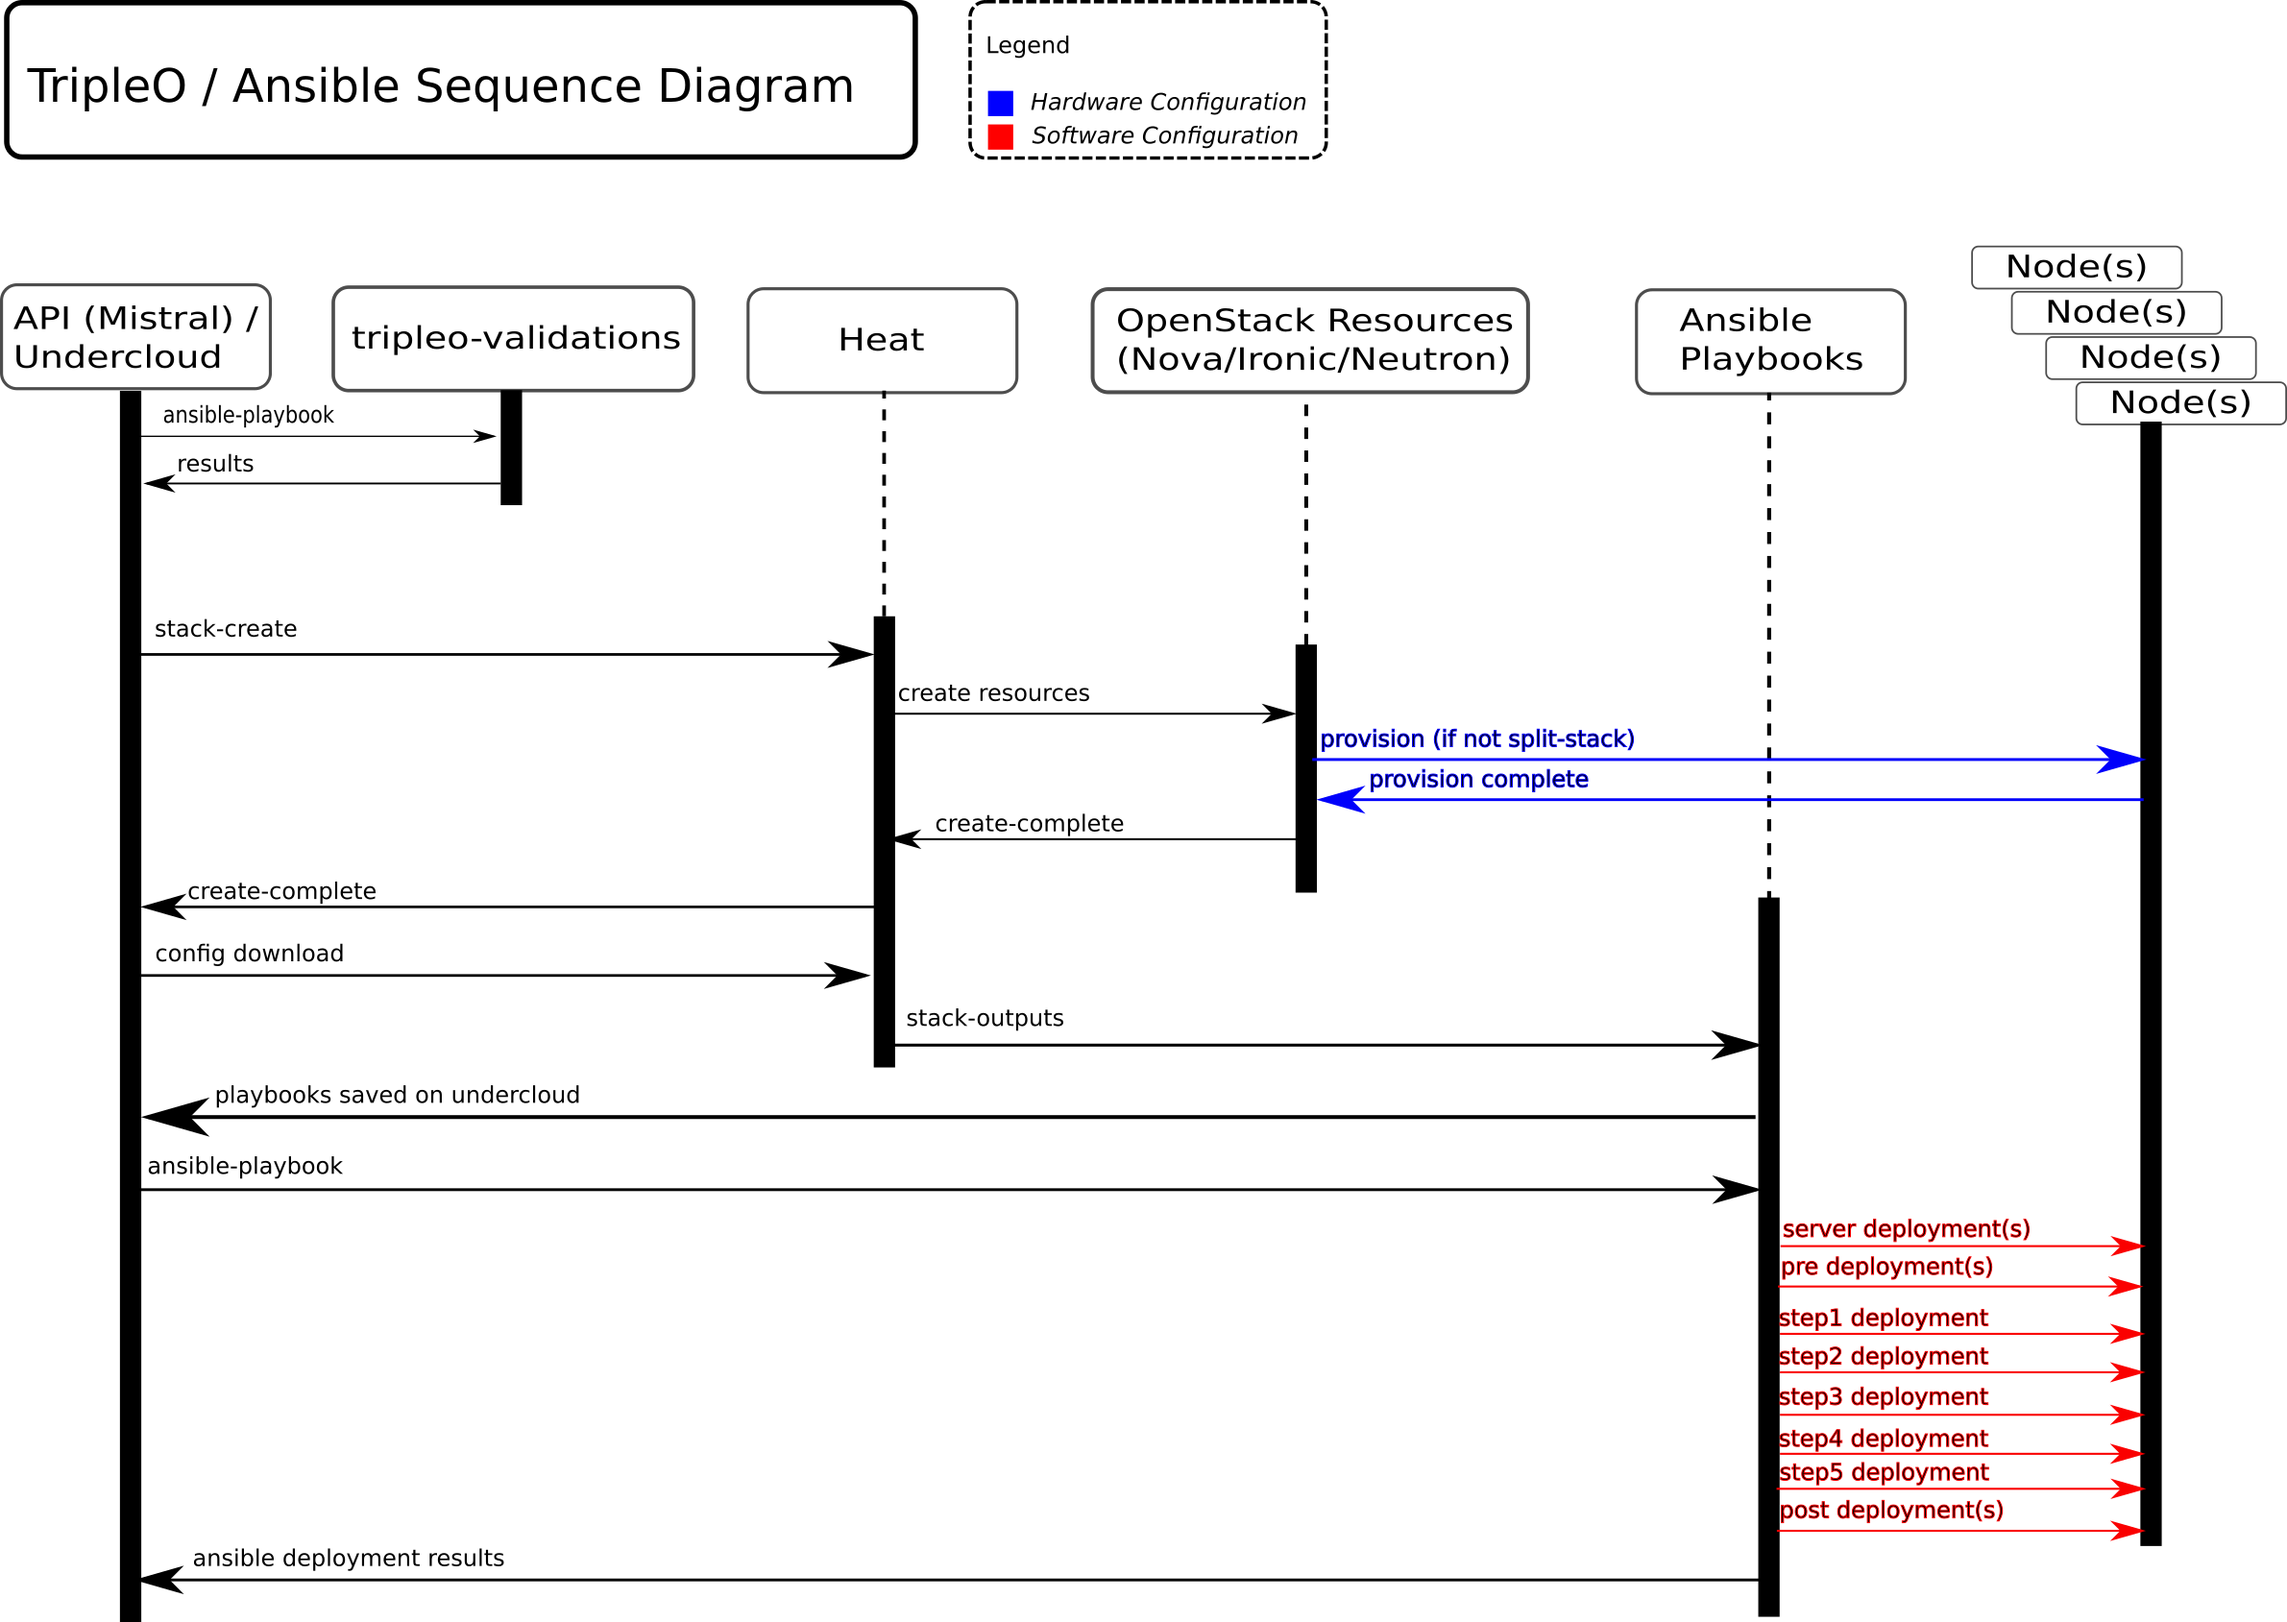
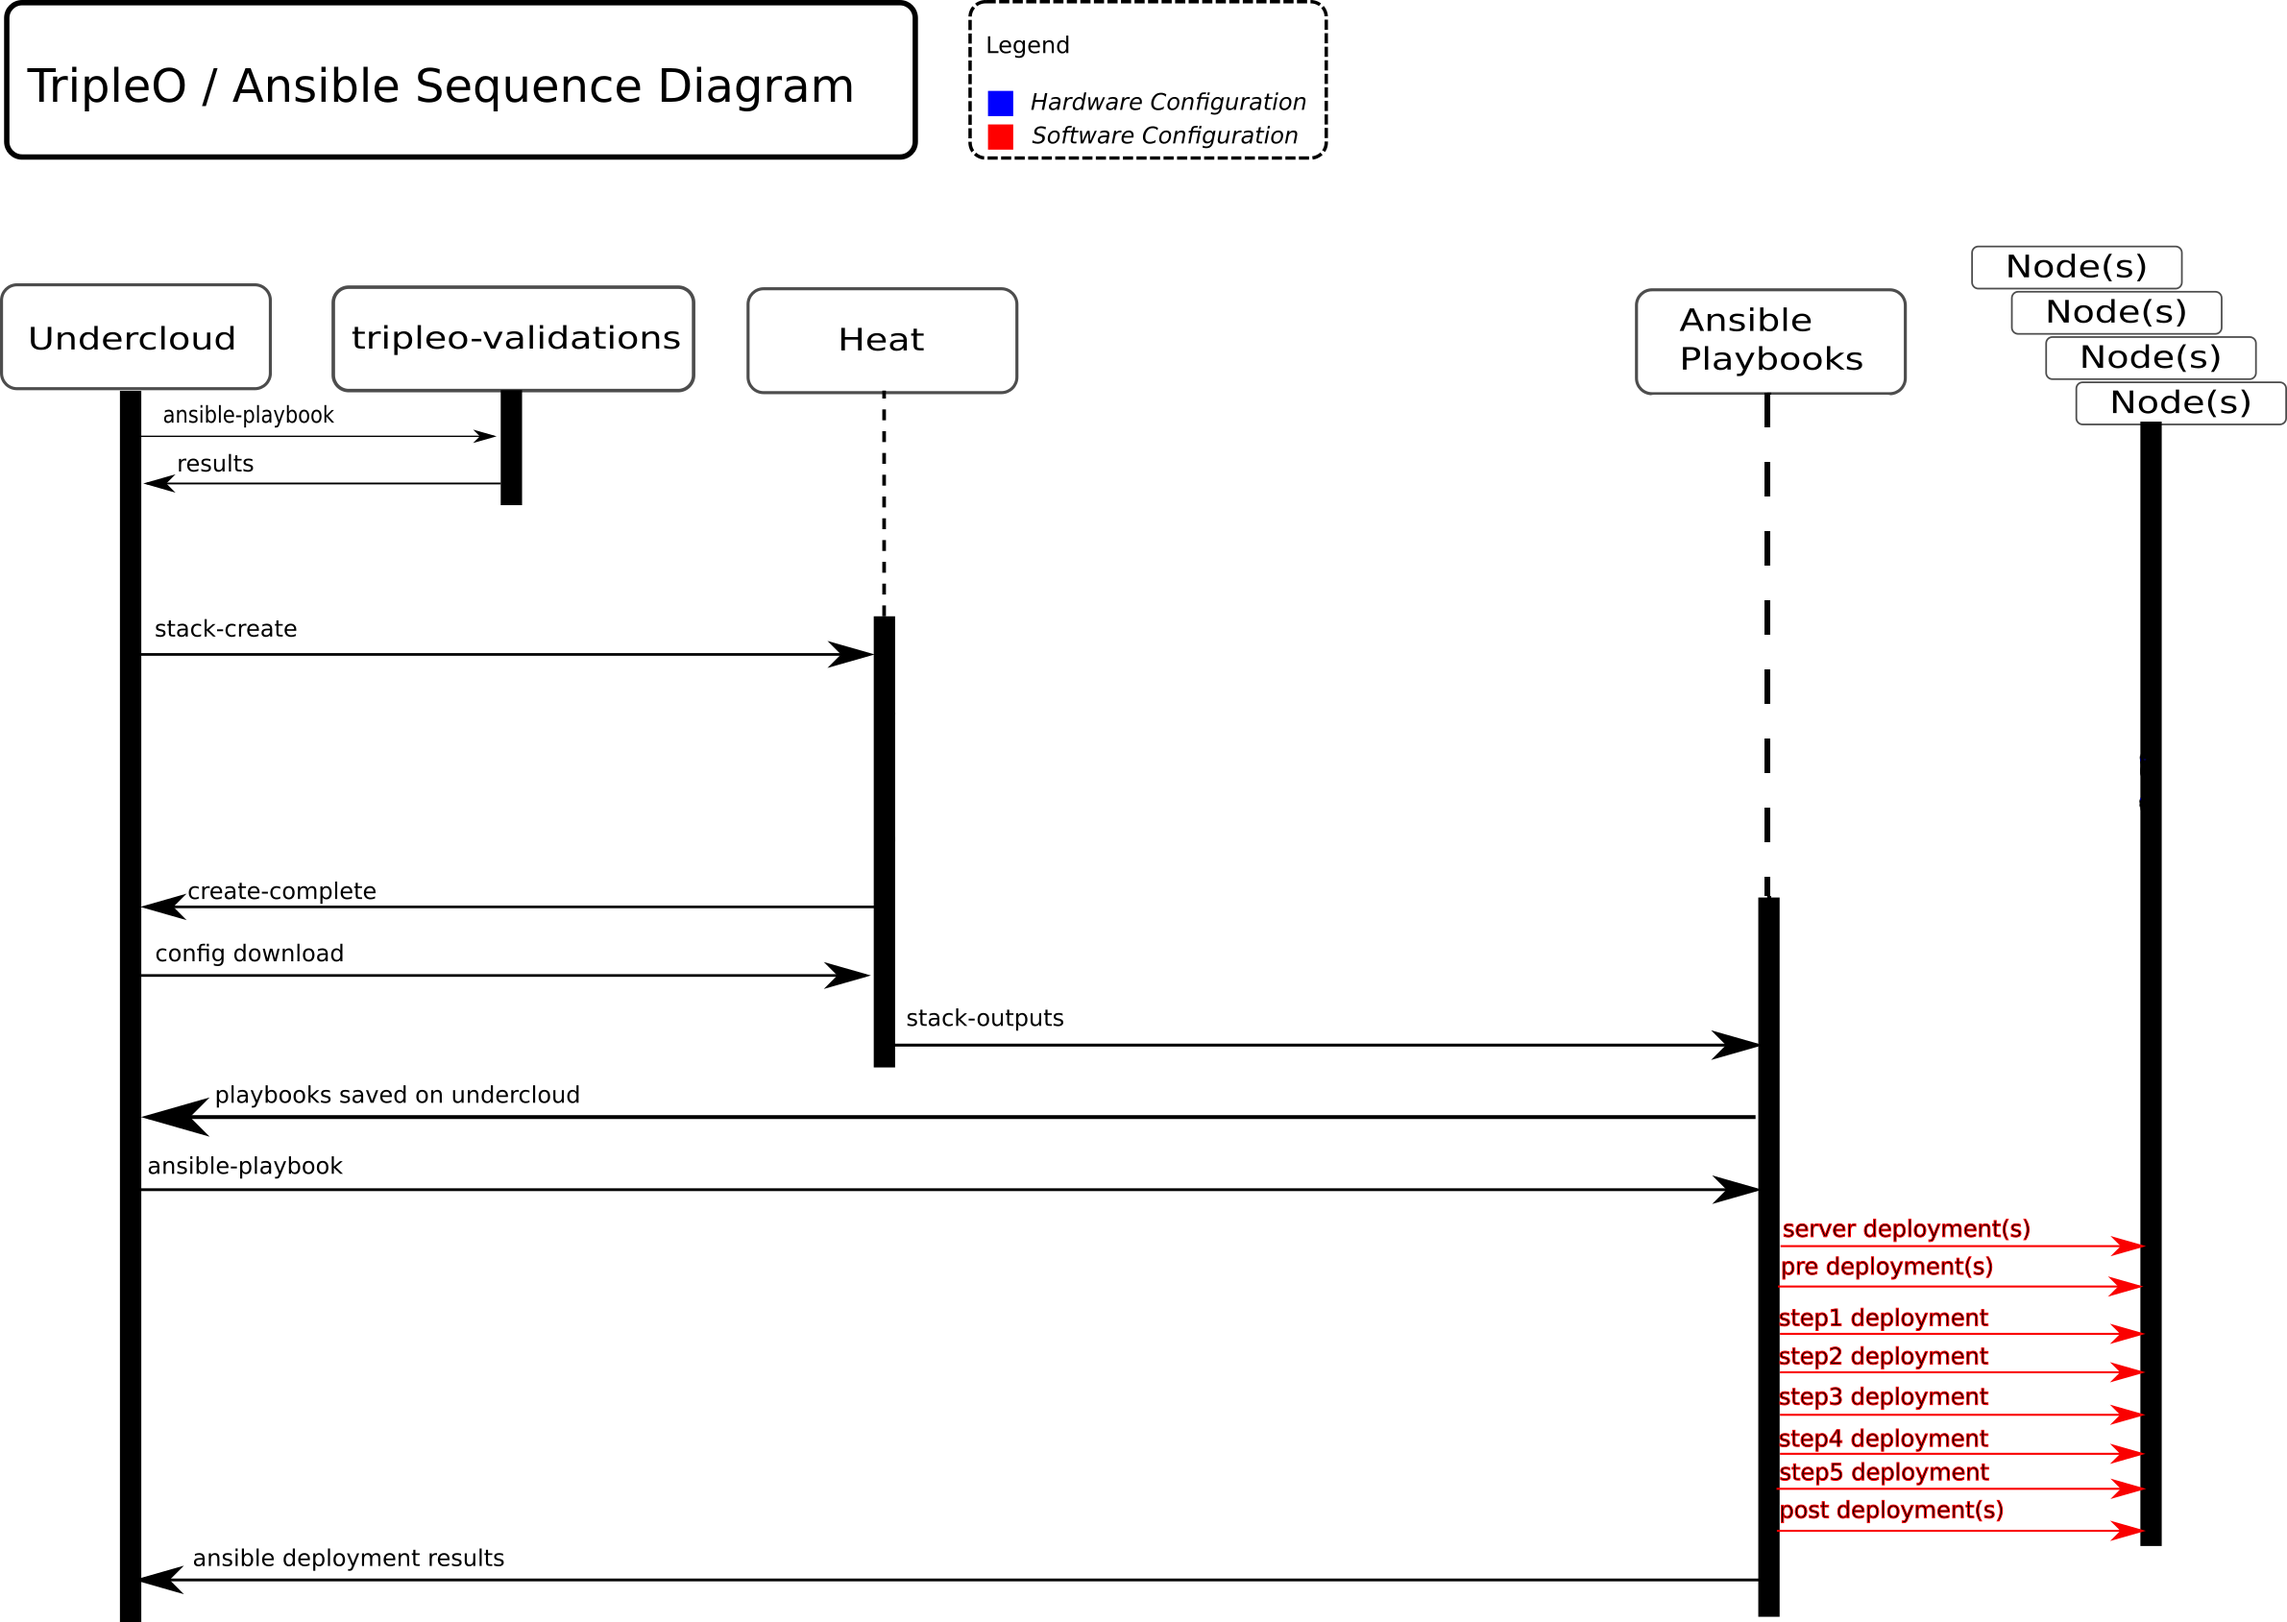
Update config-download documentation
With Ephemeral Heat, the config-download process now looks
substantially different. This change updates the config-download
documentation to represent the latest workflow with Ephemeral Heat.

diff --git a/deploy-guide/source/deployment/ansible_config_download.rst b/deploy-guide/source/deployment/ansible_config_download.rst
@@ -31,12 +31,12 @@ undercloud by default.
 manner, and will often be used to refer to the method detailed in this
 documentation.
 
-Heat is still used to create the stack and all of the OpenStack resources. The
-same parameter values and environment files are passed to Heat as they were
-previously. During the stack creation, Heat creates any OpenStack service
-resources such as Nova servers and Neutron networks and ports, and then creates
-the software configuration data necessary to configure the overcloud via
-SoftwareDeployment resources.
+Heat is still used to create the stack, then the ansible playbooks are saved
+to the filesystem in a git repository. These playbook are used to deploy the
+openstack services and configuration to the Overcloud nodes.
+The same parameter values and environment files are passed to Heat as they were
+previously. During the stack creation, Heat simply takes the user inputs from the
+templates and renders the required playbooks for the deployment.
 
 The difference with ``config-download`` is that although Heat creates all the
 deployment data necessary via SoftwareDeployment resources to perform the
@@ -67,8 +67,7 @@ workflow steps are automated by tripleoclient. The workflow steps are summarized
 as:
 
 #. Create deployment plan
-#. Create Heat stack along with any OpenStack resources (Neutron networks,
-   Nova/Ironic instances, etc)
+#. Create Heat stack
 #. Create software configuration within the Heat stack
 #. Create tripleo-admin ssh user
 #. Download the software configuration from Heat
@@ -109,11 +108,11 @@ used to influence the behavior of the overcloud deployment as it relates to
                            # arbitrary ansible config to be used when running
                            # ansible-playbook
 
-    --stack-only           # Only update the plan and stack. Skips applying the
+    --stack-only           # Only update the stack. Skips applying the
                            # software configuration with ansible-playbook.
 
     --config-download-only # Only apply the software configuration with
-                           # ansible-playbook. Skips the stack and plan update.
+                           # ansible-playbook. Skips the stack update.
 
 See ``openstack overcloud deploy --help`` for further help text.
 
@@ -152,32 +151,13 @@ take precendence over the defaults::
       --override-ansible-cfg /home/stack/ansible.cfg
 
 
-config-download with deployed-server
-^^^^^^^^^^^^^^^^^^^^^^^^^^^^^^^^^^^^
-When using ``config-download`` with :doc:`deployed-server <../features/deployed_server>`
-(pre-provisioned nodes), a ``HostnameMap`` parameter **must** be provided.
-Create an environment file to define the parameter, and assign the node
-hostnames in the parameter value. The following example shows a sample value::
-
-  parameter_defaults:
-    HostnameMap:
-      overcloud-controller-0: controller-00-rack01
-      overcloud-controller-1: controller-01-rack02
-      overcloud-controller-2: controller-02-rack03
-      overcloud-novacompute-0: compute-00-rack01
-      overcloud-novacompute-1: compute-01-rack01
-      overcloud-novacompute-2: compute-02-rack01
-
-Write the contents to an environment file such as ``hostnamemap.yaml``, and
-pass the environment as part of the deployment command with ``-e``.
-
 Ansible project directory
 ^^^^^^^^^^^^^^^^^^^^^^^^^
 The workflow will create an Ansible project directory with the plan name under
-``$HOME/config-download``. For the default plan name of ``overcloud`` the working
+``$HOME/overcloud-deploy/<stack>/config-download``. For the default plan name of ``overcloud`` the working
 directory will be::
 
-    $HOME/config-download/overcloud
+    $HOME/overcloud-deploy/overcloud/config-download/overcloud
 
 The project directory is where the downloaded software configuration from
 Heat will be saved. It also includes other ansible-related files necessary to
@@ -257,64 +237,32 @@ applied.
 
 Manual config-download
 ----------------------
+Prior to running the ansible playbooks generated by config-download, it is necessary
+to ensure the baremetal nodes have already been provisioned. See the baremetal deployment
+guide first:
+
+:doc:`configure-nodes-before-deployment <./network_v2>`
+
 The config-download steps can be skipped when running ``openstack overcloud deploy``
 by passing ``--stack-only``. This will cause tripleoclient to only deploy the Heat
 stack.
 
-When using ``--stack-only``, the deployment data needs to be pulled from Heat
-with a separate command and ``ansible-playbook`` run manually. This enables
-more manual interaction and debugging.
+When running ``openstack overcloud deploy`` with the ``--stack-only`` option, this
+will still download the ansible content to the default directory
+``$HOME/overcloud-deploy/overcloud/config-download``. But it will stop before running
+the ``ansible-playbook`` command.
 
 This method is described in the following sections.
 
-Enable tripleo-admin via SSH
-^^^^^^^^^^^^^^^^^^^^^^^^^^^^
-The tripleo-admin user must be `authorized on the overcloud nodes`_ for use by
-``ansible-playbook``, if using the default user set by
-``tripleo-ansible-inventory``. Authorizing the tripleo-admin user is done by
-running the ``openstack overcloud admin authorize`` command::
-
-    openstack overcloud admin authorize \
-      --overcloud-ssh-user heat-admin \
-      --overcloud-ssh-key ~/.ssh/id_rsa
-
-Alternatively, a user and key that are already authorized on the overcloud
-nodes can be used if that user and key are specified when running
-``tripleo-ansible-inventory``. See `Generate an inventory`_.
-
-Run config-download
-^^^^^^^^^^^^^^^^^^^
-When using the ``--stack-only`` argument, the deployment data needs to be first
-downloaded from Heat. To manually download the software configuration data, use
-the ``openstack overcloud config download`` command::
-
-    openstack overcloud config download \
-      --name overcloud \
-      --config-dir config-download
-
-The ansible data will be generated under a directory called ``config-download``
-as specified by the ``--config-dir`` CLI argument.
-
-Generate an inventory
-^^^^^^^^^^^^^^^^^^^^^
-To generate an inventory file to use with ``ansible-playbook`` use the
-``tripleo-ansible-inventory`` command::
-
-    tripleo-ansible-inventory \
-      --ansible_ssh_user centos \
-      --static-yaml-inventory inventory.yaml
-
-The above example shows setting the ansible ssh user as ``centos``. This can be
-changed depending on the environment. See ``tripleo-ansible-inventory --help``
-for a full list of CLI arguments and options.
 
 Run ansible-playbook
 ^^^^^^^^^^^^^^^^^^^^
-Once the configuration has been downloaded and the inventory generated, run
-``ansible-playbook`` to configure the overcloud nodes::
+Once the baremetal nodes have been configured, and the configuration has been
+downloaded during the ``--stack-only`` run of ``openstack overcloud deploy``. 
+You can then run ``ansible-playbook`` manually to configure the overcloud nodes::
 
     ansible-playbook \
-      -i inventory.yaml \
+      -i /home/stack/config-download/overcloud/tripleo-ansible-inventory.yaml \
       --private-key /path/private/ssh/key \
       --become \
       config-download/deploy_steps_playbook.yaml
@@ -340,20 +288,6 @@ The following minimum configuration is recommended::
     retries = 8
     pipelining = True
 
-.. admonition:: Ceph
-   :class: ceph
-
-   When config-download configures Ceph, Ansible executes ceph-ansible
-   from within the config-download external_deploy_steps_tasks
-   playbook. When config-download is run manually the `ssh_args`
-   argument above will not be inherited by the second Ansible
-   execution. To pass Ansible environment variables to this execution
-   use a Heat environment file like the following::
-
-     parameter_defaults:
-       CephAnsibleEnvironmentVariables:
-         ANSIBLE_HOST_KEY_CHECKING: 'False'
-         ANSIBLE_PRIVATE_KEY_FILE: '/home/stack/.ssh/id_rsa'
 
 .. note::
 
@@ -588,12 +522,8 @@ the ansible project directory.
 
 Complete the :ref:`manual-config-download` steps to create the ansible project
 directory, or use the existing project directory at
-``$HOME/config-download/<plan>``.
+``$HOME/overcloud-deploy/<stack-name>/config-download/<stack-name>``.
 
-.. note::
-
-    The project directory under ``$HOME/config-download/<plan>`` is only updated
-    by ``openstack overcloud deploy`` if ``--stack-only`` is **not** used.
 
 Tags
 ^^^^
@@ -712,8 +642,6 @@ the ``--stack-only`` cli argument::
       --stack-only
       # other CLI arguments
 
-Once the update is complete, complete the :ref:`manual-config-download` steps
-to create the ansible project directory.
 
 When ansible-playbook is run, use the ``--check`` CLI argument with
 ansible-playbook to preview any changes. The extent to which changes can be
@@ -727,23 +655,3 @@ differences that would result from changes.
 See `Ansible Check Mode ("Dry Run")
 <https://docs.ansible.com/ansible/2.5/user_guide/playbooks_checkmode.html>`_
 for more details.
-
-Generating overcloudrc
-----------------------
-In some cases, it may be required to manually generate the ``overcloudrc``
-file if ``ansible-playbook`` was used manually outside of the workflow.
-
-The following command can be used to generate the ``overcloudrc`` file::
-
-    openstack overcloud credential overcloud
-
-It will generate the ``overcloudrc`` file in the current directory. The
-``--directory`` option can be used to generate it in a different location.
-If needed, substitute the name of the deployment for overcloud.
-
-config-download with Heat SoftwareDeployment outputs
-----------------------------------------------------
-``config-download`` does not support outputs on Heat
-SoftwareDeployment/SoftwareConfig resources. Often, ``deploy_steps_tasks`` can
-be used to reproduce the same behavior that would be handled by an output, by
-using Ansible tasks and the ``register`` keyword.
